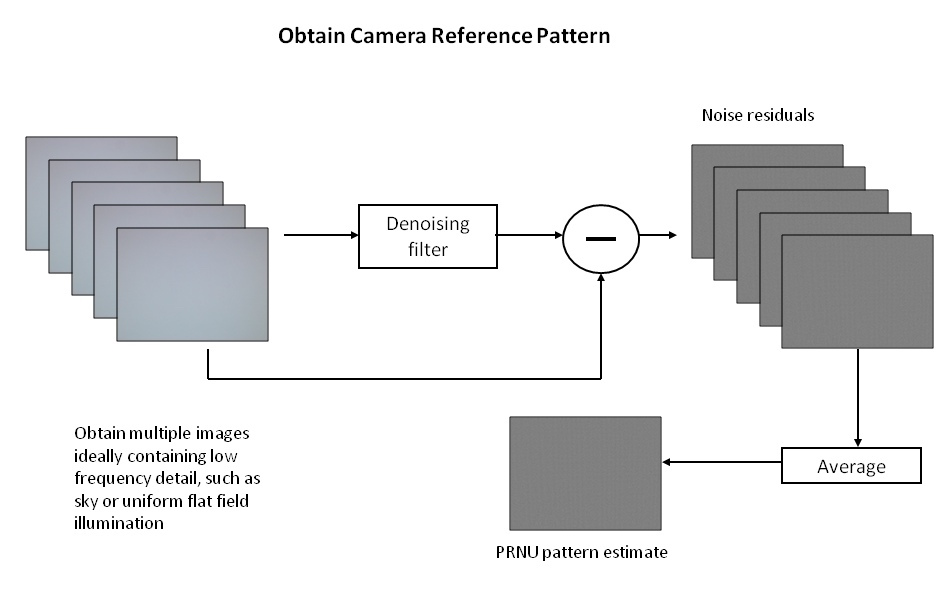
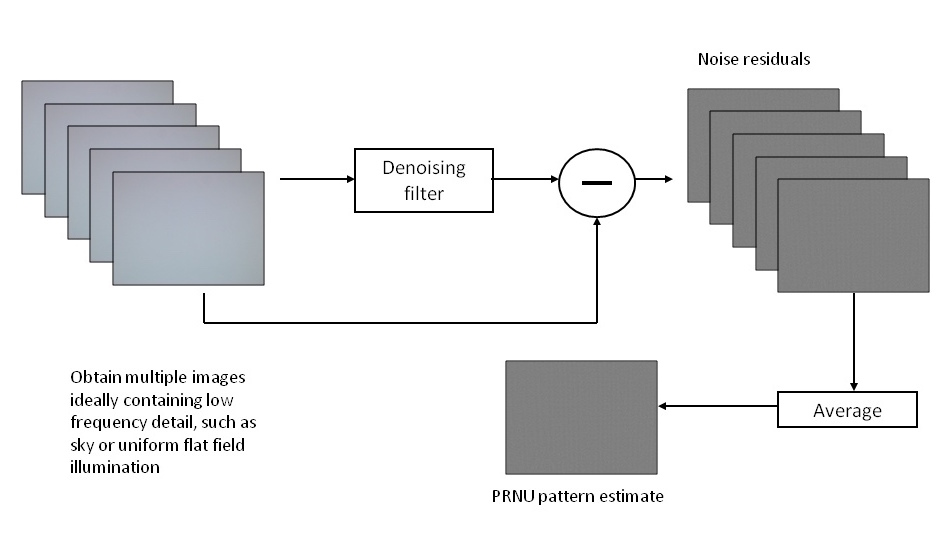
intro e metodo

diff --git a/docs/slides/metodo.tex b/docs/slides/metodo.tex
@@ -2,29 +2,86 @@
 
 \begin{tframe}{Il metodo}
 
-% - estrazione prnu
-% - pce matrice pesi
-% - clustering
-% - reference patterns/fingerprints
-
+\vspace{0.5cm}
+Il metodo proposto è suddiviso nelle seguenti fasi:
+\vspace{0.5cm}
+\begin{itemize}
+\item Estrazione dei \textbf{PRNU} dalle immagini
+\vspace{0.5cm}
+\item Calcolo della \textbf{matrice dei pesi} tramite \textbf{PCE}
+\vspace{0.5cm}
+\item \textbf{Clustering} delle immagini (usando \emph{Normalized Cuts})
+\vspace{0.5cm}
+\item Generazione delle \textbf{fingerprints} di camera
+\end{itemize}
 \end{tframe}
 
 
 \begin{tframe}{PRNU}
 
-% - estrazione prnu e calcolo PCE
+Il \textbf{PRNU}, \emph{Photo-Response Non-Uniformity}, è un rumore di tipo \emph{pattern noise} presente nelle immagini, dovuto principalmente dal tipo di sensore utilizzato e da difetti in fase di costruzione.
+
+\vspace{0.3cm}
+
+Il PRNU si scompone in:
+\vspace{0.5cm}
+\begin{itemize}
+\item \textbf{Pixel Non-Uniformity} (\textbf{PNU}): risultante dalla differenza di luminosità dei pixels in regioni non omogenee e imperfezioni del sensore
+\item Componenti a bassa frequenza
+\end{itemize}
+
+\vspace{0.5cm}
+In generale, due immagini acquisite dallo stesso sensore CCD presentano lo stesso rumore PNU.
 
 \end{tframe}
 
 
 \begin{tframe}{Clustering}
 
-% - normalized cuts
+L'operazione di \textbf{clustering} consiste nel raggruppare elementi (immagini) tra loro \emph{simili} in gruppi tra loro disgiunti.
+
+\vspace{0.5cm}
+
+\textbf{Similarità}: due immagini sono tra loro simili se la loro \textbf{Peaks-to-Correlation Energy} (\textbf{PCE}) è alta.
+
+\vspace{0.7cm}
+
+Viene dunque costruita una \emph{matrice di similarità} $w$ tra le immagini il cui generico elemento
+
+$$
+w(i, j) = PCE(PRNU_i, PRNU_j)
+$$
 
 \end{tframe}
 
+\begin{tframe}{Clustering}
+
+Il clustering è infine eseguito dall'algoritmo \textbf{Normalized Cuts}.
+\vspace{0.3cm}
+
+Dato un \emph{grafo pesato} $G = <V, E>$, i cui pesi associati agli archi sono definiti nella matrice $w$, procede ricorsivamente bipartizionando il grafo $G$ ad ogni passo in due sottografi $A$ e $B$ (con $A \cup B = V$ e $A \cap B = \varnothing$). Per ciascuna bipartizione calcola un \emph{valore del taglio
+}
+$$
+cut(A, B) = \sum_{u \in A, v \in B} w(u, v)
+$$
+
+Il taglio ottimale per partizionale il grafo è calcolato ottimizzando il valore di un \textbf{taglio normalizzato}
+
+$$Ncut(A, B) = \frac{cut(A, B)}{assoc(A, V)} + \frac{cut(A, B)}{assoc(B. V)}$$
+
+\end{tframe}
+
+
+
 \begin{tframe}{Estrazione delle \emph{fingerprints}}
 
-% - fingerprints
+Eseguito il clustering delle immagini, per ciascun cluster viene generata una \textbf{fingerprint} a partire dalle immagini in esso contenute.
 
+\begin{figure}[h]
+\begin{center}
+\includegraphics[width=0.8\textwidth]{../images/prnu_extraction_2}
+\end{center}
+  \caption{Estrazione della \emph{fingerprint} da ciascun cluster ottenuto}
+\label{fig:soglia AC}
+\end{figure}
 \end{tframe}

diff --git a/docs/slides/intro.tex b/docs/slides/intro.tex
@@ -2,4 +2,11 @@
 
 \begin{tframe}{Introduzione}
 
+\vspace{0.5cm}
+
+\textbf{Obiettivo}: implementare un sistema di identificazione di camera (\emph{Source Camera Iden- tification, SCI}) basato sul clustering di immagini in gruppi eterogenei, utilizzando come distanza la PCE, peaks-to-correlation energy ratio, tra i PRNU delle immagini. 
+
+\vspace{1cm}
+Analisi dell'efficienza del metodo su immagini caricate e scaricate da \textbf{Facebook}
+
 \end{tframe}

diff --git a/docs/slides/validation.tex b/docs/slides/validation.tex
@@ -1,5 +1,12 @@
 \begin{tframe}{Validazione}
 
-% - validation
+Data una generica immagine $I$ ed un insieme $F_1, \ldots, F_m$ di \emph{fingerprints}, l'obiettivo è di stabilire da quale sorgente è stata scattata.
 
+\begin{figure}[h]
+\begin{center}
+\includegraphics[width=0.8\textwidth]{../images/validation_2}
+\end{center}
+  \caption{Validazione delle immagini}
+\label{fig:validation}
+\end{figure}
 \end{tframe}
